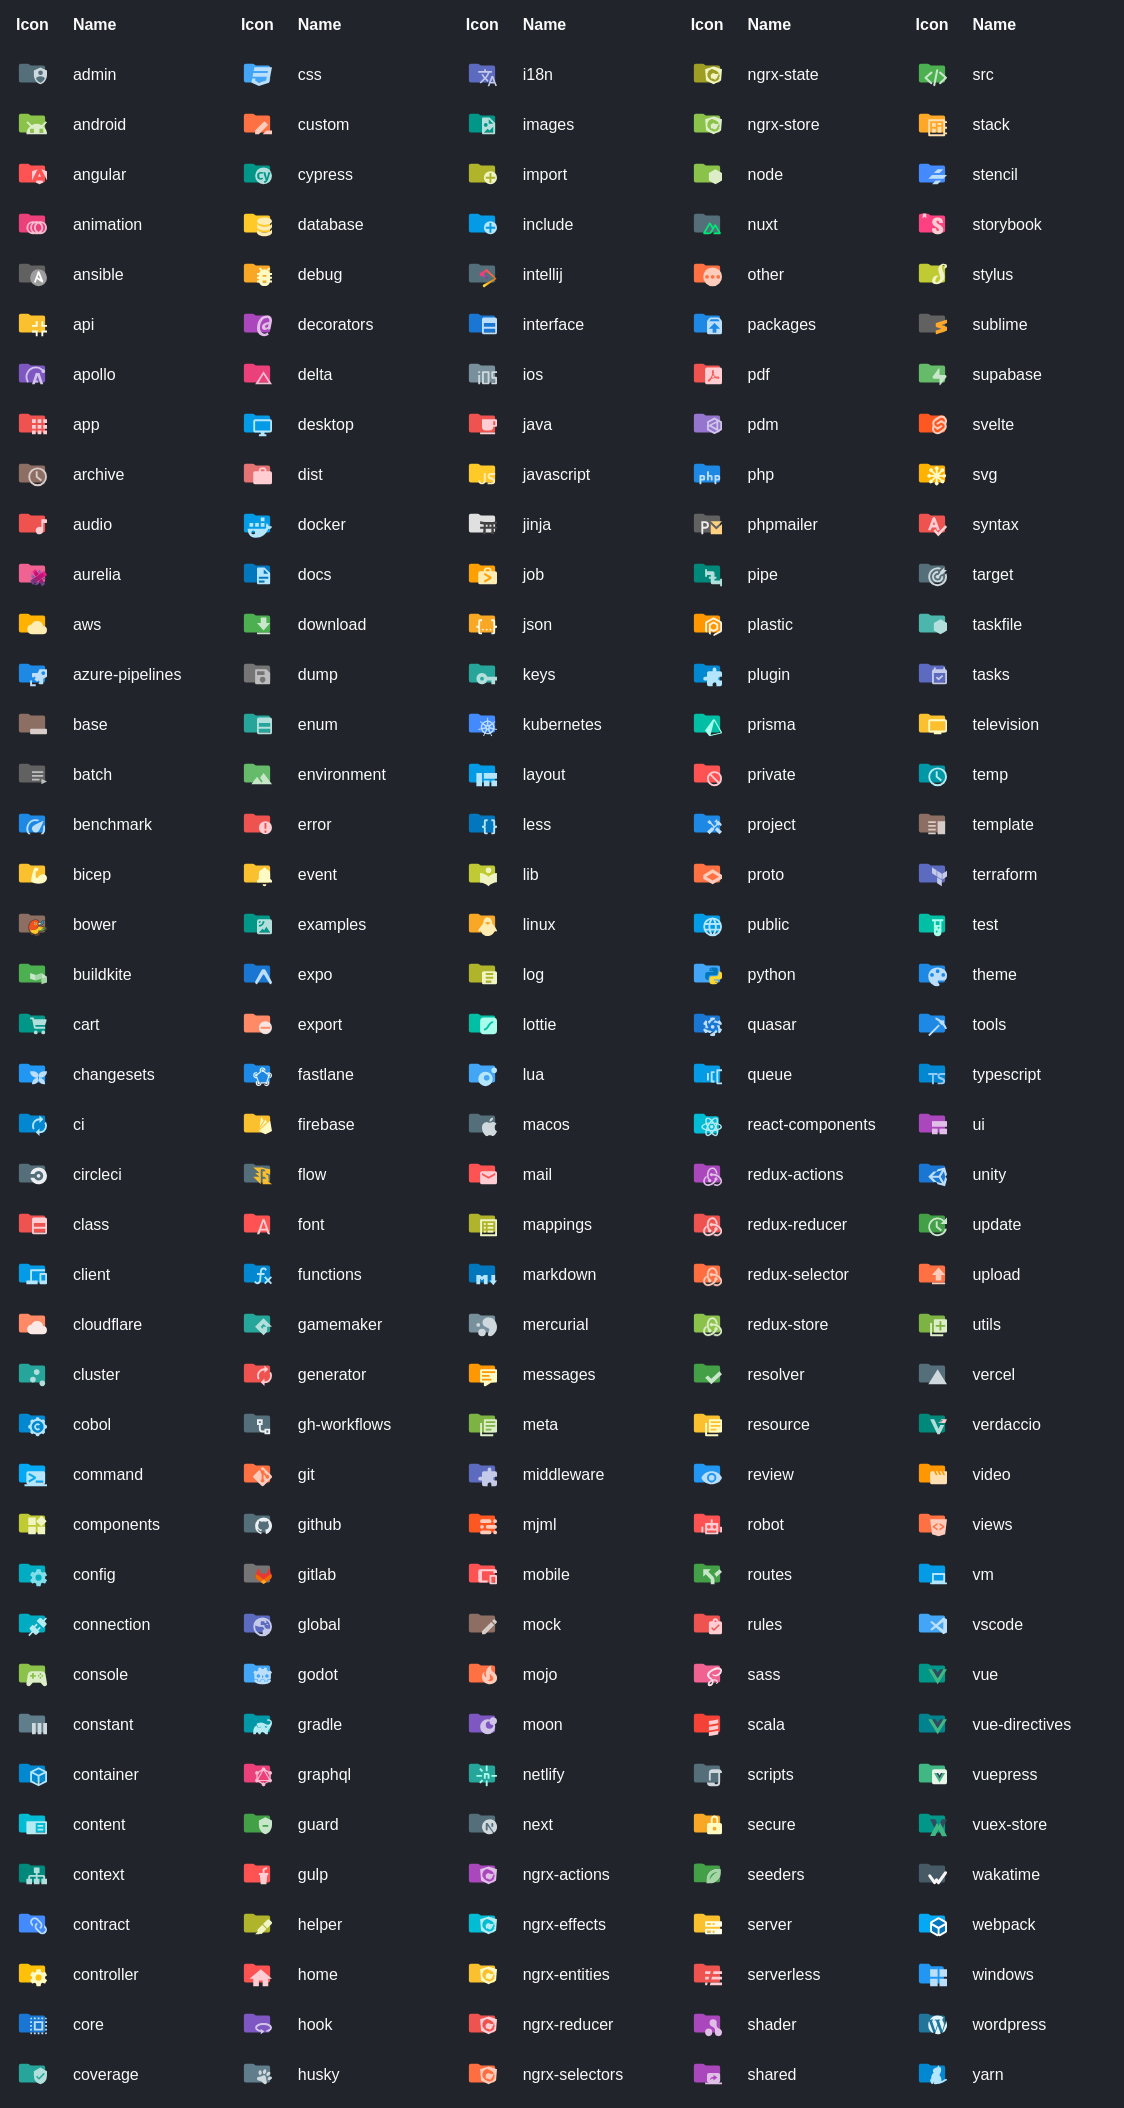
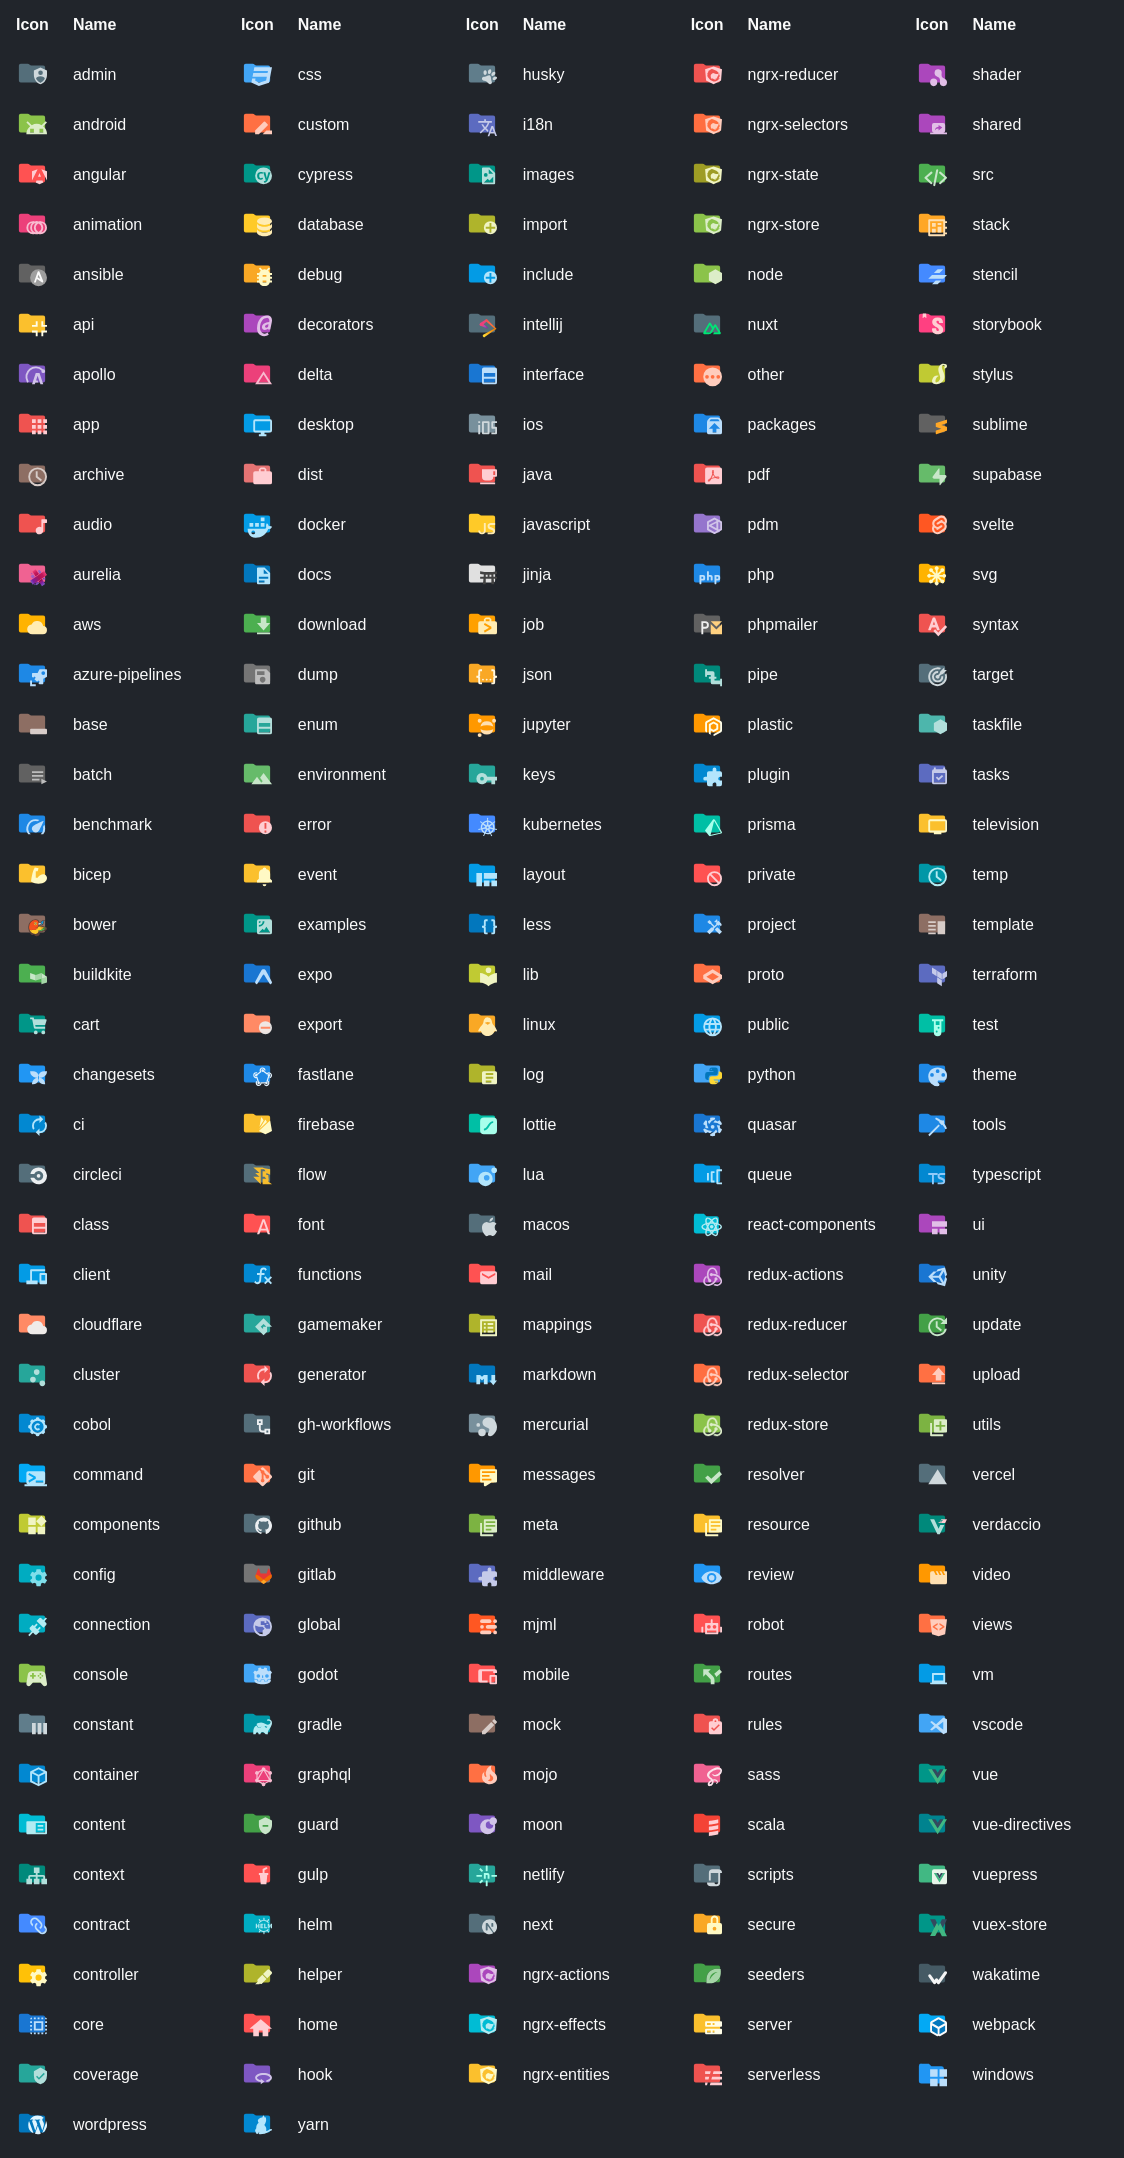
release: 🔖 v0.58.0

diff --git a/CHANGELOG.md b/CHANGELOG.md
@@ -3,10 +3,35 @@
  All notable changes to this project will be documented in this file. Dates are displayed in UTC.
 
  
+#### [v0.58.0](https://github.com/lucodear/lucodear-icons/compare/v0.57.0...v0.58.0) 
+
+> July 10, 2024 
+
+- ci: 🔄 update icon review action [`0fa1c9b0`](https://github.com/lucodear/lucodear-icons/commit/0fa1c9b0)
+- Fixed all .md files to conform to markdownlint rules [`#2398`](https://github.com/lucodear/lucodear-icons/pull/2398)
+- Added markdownlint to list of reccomended extensions [`#2400`](https://github.com/lucodear/lucodear-icons/pull/2400)
+- Added cairo icon [`#2393`](https://github.com/lucodear/lucodear-icons/pull/2393)
+- Exclude files from vscode extension bundle [`a3f42ed7`](https://github.com/lucodear/lucodear-icons/commit/a3f42ed7)
+- A new item has been added to the checklist in the PR template [`#2395`](https://github.com/lucodear/lucodear-icons/pull/2395)
+- Remove jq as it's already part of the runner [`#2386`](https://github.com/lucodear/lucodear-icons/pull/2386)
+- Improved preview text [`#2397`](https://github.com/lucodear/lucodear-icons/pull/2397)
+- Added dockerhub folder [`#2399`](https://github.com/lucodear/lucodear-icons/pull/2399)
+- Fixed color checking [`#2392`](https://github.com/lucodear/lucodear-icons/pull/2392)
+- Added grafana alloy icon [`#2391`](https://github.com/lucodear/lucodear-icons/pull/2391)
+- Cleaned icons [`#2383`](https://github.com/lucodear/lucodear-icons/pull/2383)
+- Added labels for issues [`#2394`](https://github.com/lucodear/lucodear-icons/pull/2394)
+- Replace generated image previews instead of creating new ones [`#2386`](https://github.com/lucodear/lucodear-icons/pull/2386)
+- Add Helm folder icon [`#1181`](https://github.com/lucodear/lucodear-icons/pull/1181)
+- Update workflow files [`b1ad1d28`](https://github.com/lucodear/lucodear-icons/commit/b1ad1d28)
+- Add folder icons for Jupyter [`#2368`](https://github.com/lucodear/lucodear-icons/pull/2368)
+- ci: 🔄 persist credentials in release action [`#2385`](https://github.com/lucodear/lucodear-icons/pull/2385)
+- feat: update sentry files [`#2303`](https://github.com/lucodear/lucodear-icons/pull/2303)
+ 
 #### [v0.57.0](https://github.com/lucodear/lucodear-icons/compare/v0.56.0...v0.57.0) 
 
 > July 4, 2024 
 
+- release: 🔖 v0.57.0 [`5d618f24`](https://github.com/lucodear/lucodear-icons/commit/5d618f24)
 - ci: 🔄 restore release.yml permissions [`b1ddcf4d`](https://github.com/lucodear/lucodear-icons/commit/b1ddcf4d)
  
 #### [v0.56.0](https://github.com/lucodear/lucodear-icons/compare/v0.55.0...v0.56.0) 
